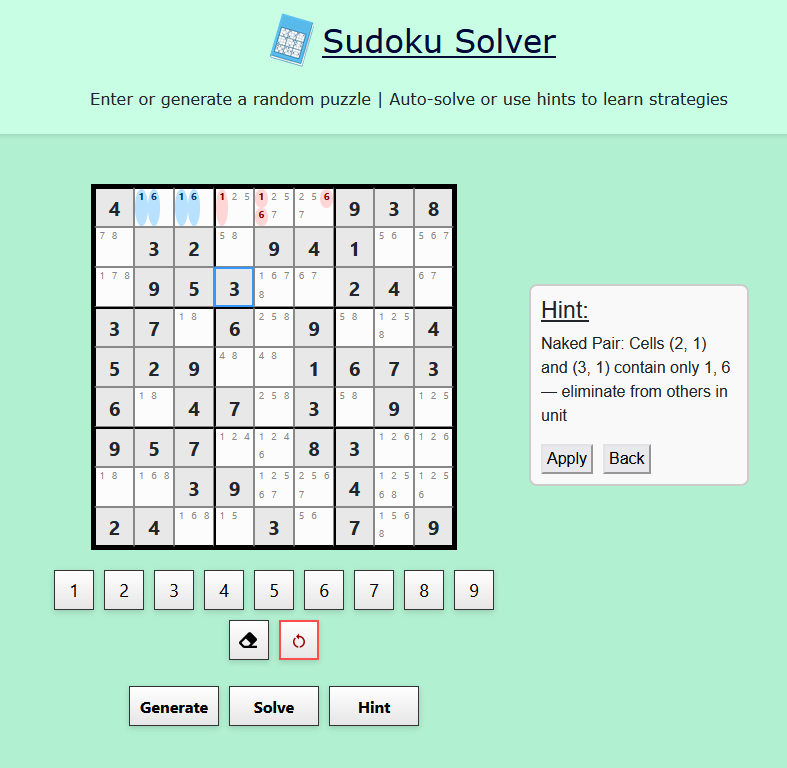
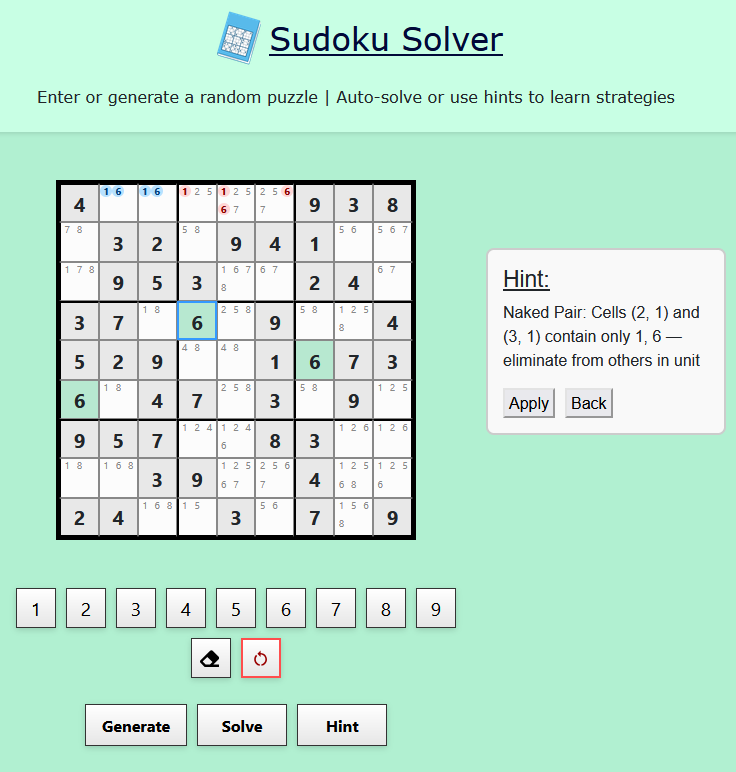
fix format

Changed region(s): [[0.0, 0.2188, 0.625, 0.9688], [0.6562, 0.3125, 1.0, 0.6562], [0.0, 0.0, 1.0, 0.1875]]

diff --git a/src/styles/SudokuBoard.css b/src/styles/SudokuBoard.css
@@ -3,7 +3,6 @@
   flex-direction: row;
   justify-content: center;
   align-items: flex-start;
-  gap: 20px;
   flex-wrap: wrap;
   padding: 1rem;
   box-sizing: border-box;
@@ -68,7 +67,7 @@
 
 .sudoku-cell.highlight-same-number,
 .sudoku-cell.user-input.highlight-same-number {
-  background-color: #8fddb6b6;
+  background-color: #8fddb6a2;
 }
 
 .generated,
@@ -129,6 +128,7 @@
   border-radius: 50%;
   font-weight: bold;
   color: #003f7d;
+  height: 1.2em;
 }
 
 .pencil-marks span.hint-eliminated {
@@ -136,4 +136,5 @@
   border-radius: 50%;
   font-weight: bold;
   color: #8b0000;
+  height: 1.2em;
 }

diff --git a/src/styles/HintBox.css b/src/styles/HintBox.css
@@ -1,6 +1,6 @@
 .hint-box {
   flex-shrink: 0;
-  width: 220px;
+  width: 240px;
   margin-top: 100px;
   border: 2px solid #ccc;
   padding: 15px;
